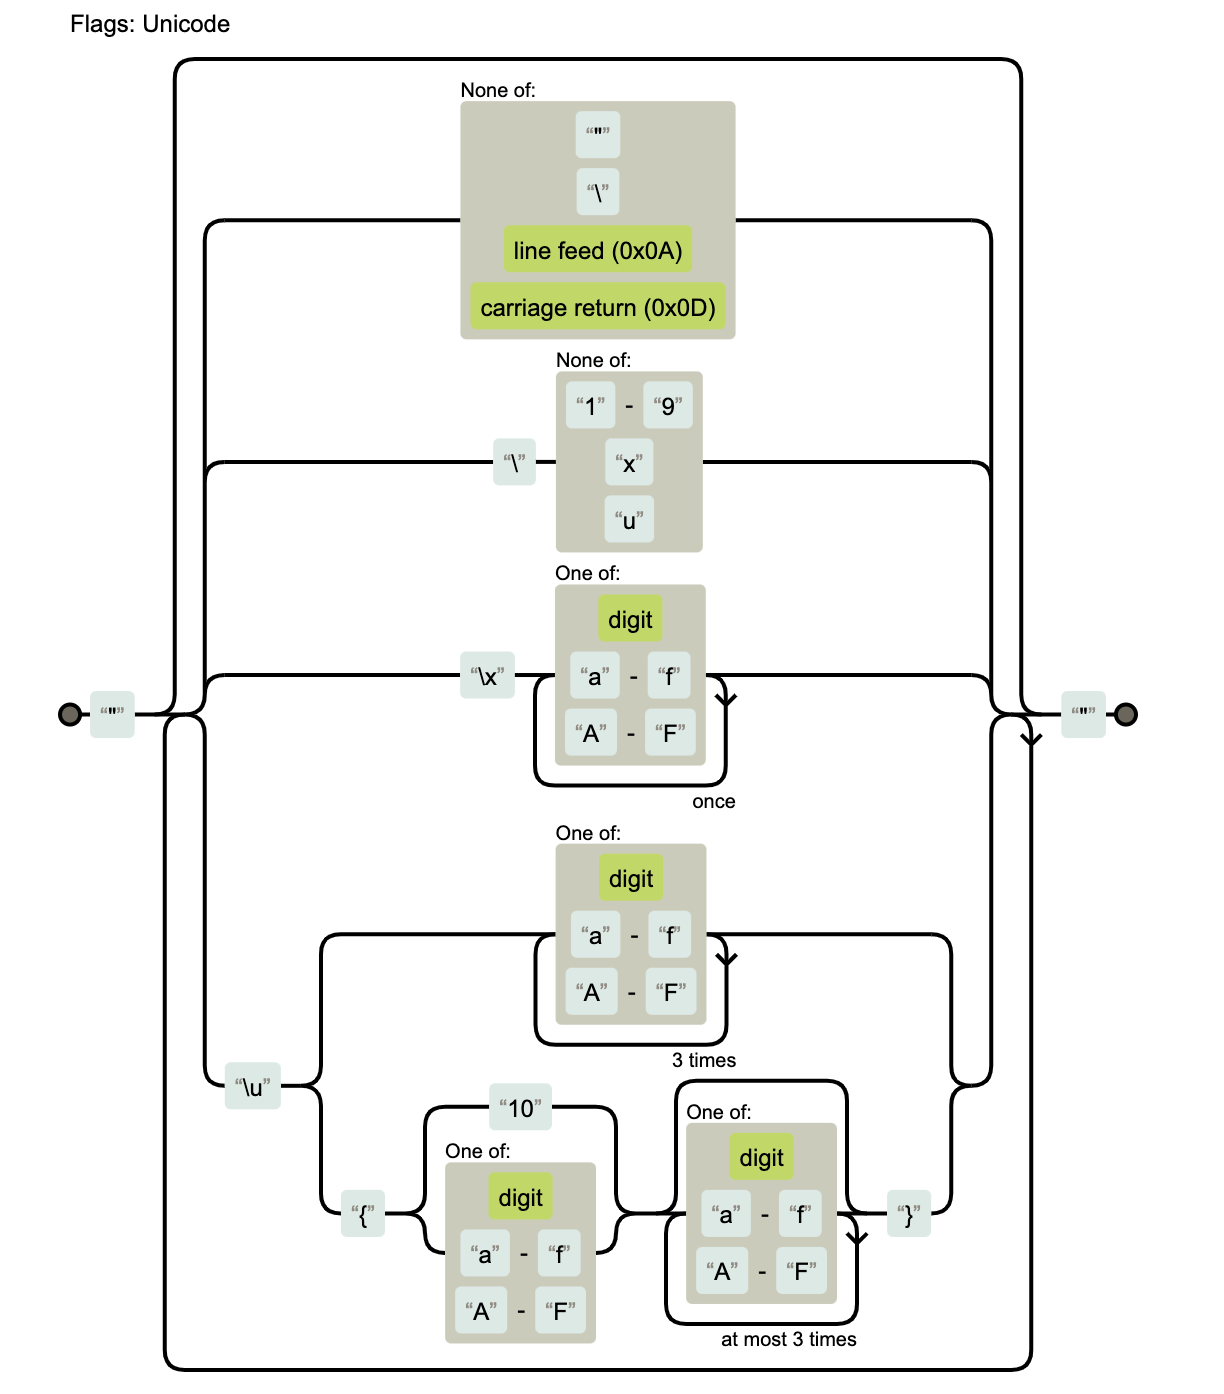
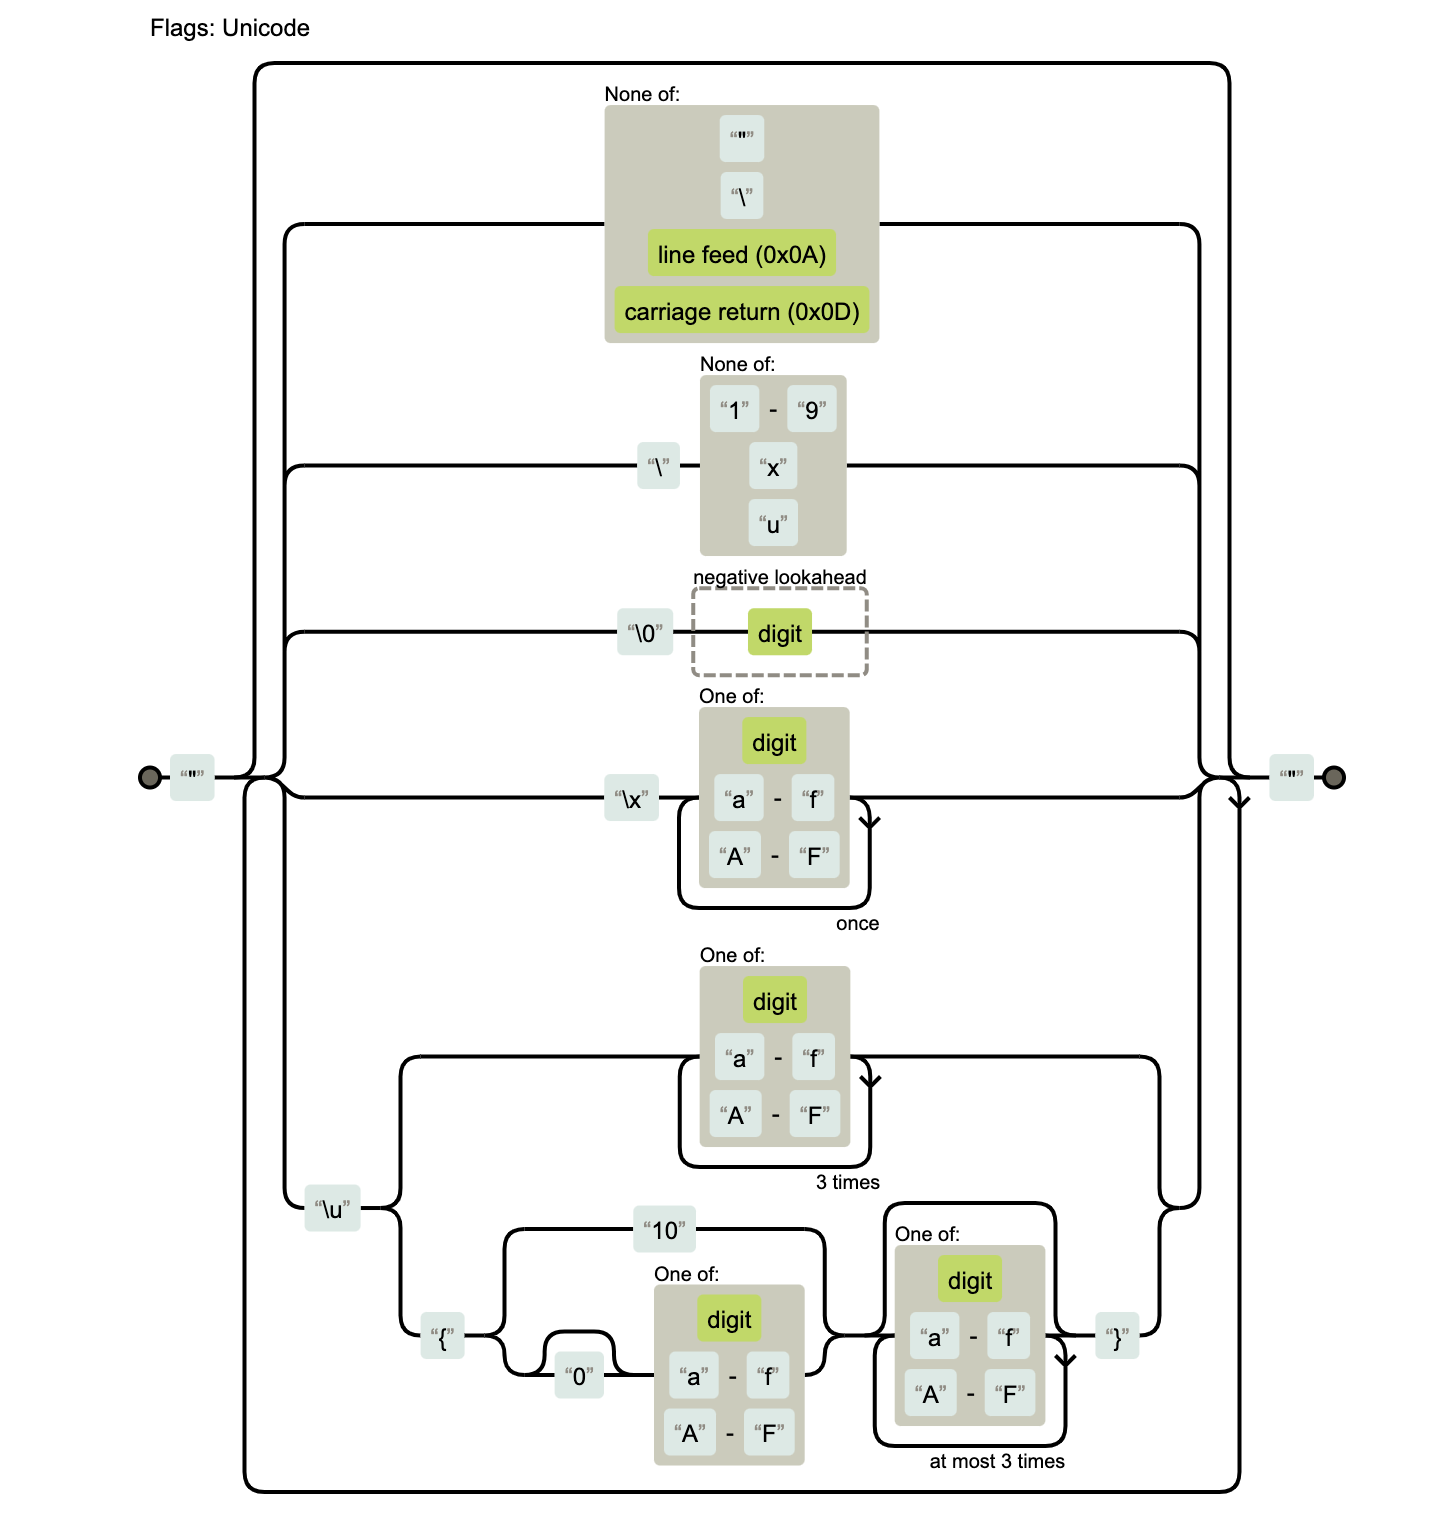
mosiya: fix 03

Changed region(s): [[0.031, 0.0, 0.9314, 0.9871]]

diff --git a/week02/homework.md b/week02/homework.md
@@ -215,14 +215,14 @@ LineTerminator 的代码为
 结合以上两条产生式， EscapeSequence 的伪代码为
 ```js
 /SingleEscapeCharacter|NonEscapeCharacter/
-/0/
+/0(?!\d)/
 /x[0-9a-fA-F]{2}/
 /u(?:[0-9a-fA-F]{4}|\{(?:10|[0-9a-fA-F])[0-9a-fA-F]{0,4}\})/
 ```
 
 结合以后得 EscapeSequence 的伪代码为(还需要 SingleEscapeCharacter 和 NonEscapeCharacter 的代码)
 ```js
-/SingleEscapeCharacter|NonEscapeCharacter|0|x[0-9a-fA-F]{2}|u(?:[0-9a-fA-F]{4}|\{(?:10|[0-9a-fA-F])[0-9a-fA-F]{0,4}\})/
+/SingleEscapeCharacter|NonEscapeCharacter|0(?!\d)|x[0-9a-fA-F]{2}|u(?:[0-9a-fA-F]{4}|\{(?:10|[0-9a-fA-F])[0-9a-fA-F]{0,4}\})/
 ```
 
 
@@ -240,7 +240,7 @@ SingleEscapeCharacter 的代码为
 
 此时可得 EscapeSequence 的伪代码为(还需要 NonEscapeCharacter 的代码)
 ```js
-/['"\\bfnrtv]|NonEscapeCharacter|0|x[0-9a-fA-F]{2}|u(?:[0-9a-fA-F]{4}|\{(?:10|[0-9a-fA-F])[0-9a-fA-F]{0,4}\})/
+/['"\\bfnrtv]|NonEscapeCharacter|0(?!\d)|x[0-9a-fA-F]{2}|u(?:[0-9a-fA-F]{4}|\{(?:10|[0-9a-fA-F])[0-9a-fA-F]{0,4}\})/
 ```
 
 
@@ -269,11 +269,11 @@ EscapeCharacter 的代码为
 ```
 此时可得 EscapeSequence 的正则为
 ```js
-/['"\\bfnrtv]|[^'"\\bfnrtv0-9xu\n\r\u2028\u2029]|0|x[0-9a-fA-F]{2}|u(?:[0-9a-fA-F]{4}|\{(?:10|[0-9a-fA-F])[0-9a-fA-F]{0,4}\})/u
+/['"\\bfnrtv]|[^'"\\bfnrtv0-9xu\n\r\u2028\u2029]|0(?!\d)|x[0-9a-fA-F]{2}|u(?:[0-9a-fA-F]{4}|\{(?:10|[0-9a-fA-F])[0-9a-fA-F]{0,4}\})/u
 ```
 整理后得
 ```js
-/[^1-9xu\n\r\u2028\u2029]|x[0-9a-fA-F]{2}|u(?:[0-9a-fA-F]{4}|\{(?:10|[0-9a-fA-F])[0-9a-fA-F]{0,4}\})/u
+/[^0-9xu\n\r\u2028\u2029]|0(?!\d)|x[0-9a-fA-F]{2}|u(?:[0-9a-fA-F]{4}|\{(?:10|[0-9a-fA-F])[0-9a-fA-F]{0,4}\})/u
 ```
 
 #### HexEscapeSequence ::
@@ -305,25 +305,25 @@ EscapeCharacter 的代码为
 得
 
 ```js
-/[^"\\\n\r]|\\[^0-9xu\n\r\u2028\u2029]|\\x[0-9a-fA-F]{2}|\\u(?:[0-9a-fA-F]{4}|\{(?:10|[0-9a-fA-F])[0-9a-fA-F]{0,4}\})|\\[\n\r\u2028\u2029]/u
+/[^"\\\n\r]|\\[^0-9xu\n\r\u2028\u2029]|\\0(?!\d)|\\x[0-9a-fA-F]{2}|\\u(?:[0-9a-fA-F]{4}|\{(?:10|[0-9a-fA-F])[0-9a-fA-F]{0,4}\})|\\[\n\r\u2028\u2029]/u
 ```
 
 故可得 DoubleStringCharacters 的正则为：
 
 ```js
-/"(?:[^"\\\n\r]|\\[^1-9xu\n\r\u2028\u2029]|\\x[0-9a-fA-F]{2}|\\u(?:[0-9a-fA-F]{4}|\{(?:10|[0-9a-fA-F])[0-9a-fA-F]{0,4}\})|\\[\n\r\u2028\u2029])*"/u
+/"(?:[^"\\\n\r]|\\[^0-9xu\n\r\u2028\u2029]|\\0(?!\d)|\\x[0-9a-fA-F]{2}|\\u(?:[0-9a-fA-F]{4}|\{(?:10|[0-9a-fA-F])[0-9a-fA-F]{0,4}\})|\\[\n\r\u2028\u2029])*"/u
 ```
 
 整理化简得 DoubleStringCharacters 的正则为：
 
 ```js
-/"(?:[^"\\\n\r]|\\[^1-9xu]|\\x[\da-fA-F]{2}|\\u(?:[\da-fA-F]{4}|\{(?:10|[\da-fA-F])[\da-fA-F]{0,4}\}))*"/u
+/"(?:[^"\\\n\r]|\\[^1-9xu]|\\0(?!\d)|\\x[\da-fA-F]{2}|\\u(?:[\da-fA-F]{4}|\{(?:10|0?[\da-fA-F])[\da-fA-F]{0,4}\}))*"/u
 ```
 
 同理可得 SingleStringCharacters 的正则为：
 
 ```js
-/'(?:[^'\\\n\r]|\\[^1-9xu]|\\x[\da-fA-F]{2}|\\u(?:[\da-fA-F]{4}|\{(?:10|[\da-fA-F])[\da-fA-F]{0,4}\}))*'/u
+/'(?:[^'\\\n\r]|\\[^1-9xu]|\\0(?!\d)|\\x[\da-fA-F]{2}|\\u(?:[\da-fA-F]{4}|\{(?:10|0?[\da-fA-F])[\da-fA-F]{0,4}\}))*'/u
 ```
 
 最终的分析结果分别如下：
